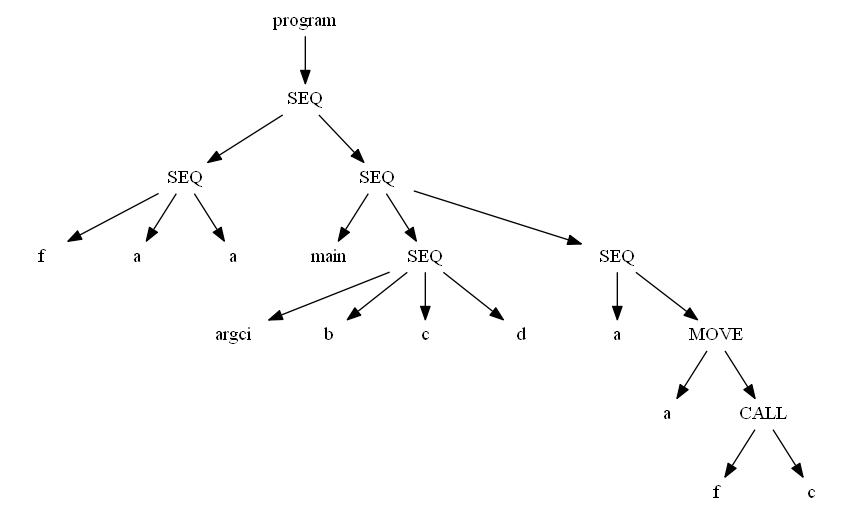
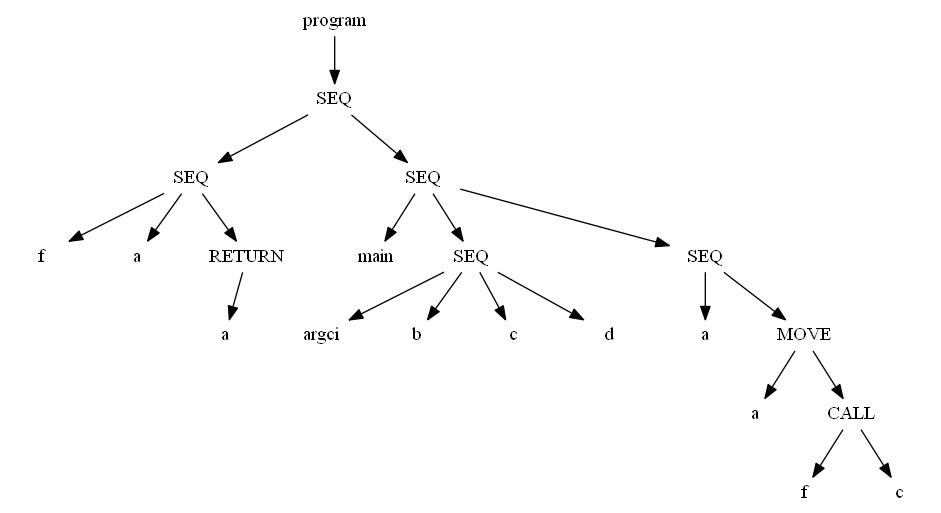
"line tag"

diff --git a/IR.cpp b/IR.cpp
@@ -35,6 +35,11 @@ void IR_print(IR_NODE IR_root, FILE *fp, int root) {
                     break;
             }
             break;
+        case IR_NODE_RETURN:
+            fprintf(fp, "\tnode%d[shape=plaintext, label=\"RETURN\", height=.3];\n\tnode%d->node%d;\n",
+                    count_node + 1, root, count_node + 1);
+            count_node++;
+            break;
         case IR_NODE_LABEL:
             fprintf(fp,
                     "\tnode%d[shape=plaintext, label=\"LABEL\", height=.3];\n\tnode%d[shape=plaintext, label=\"%d\", height=.3];\n\tnode%d->node%d;\n\tnode%d->node%d;\n",
